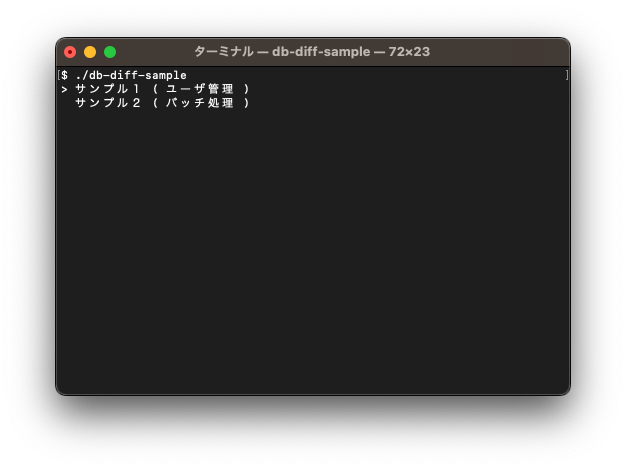
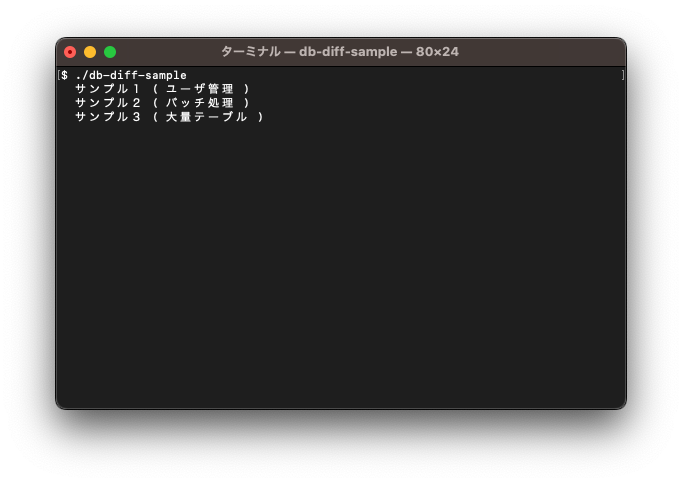
create sample3.

Changed region(s): [[0.0607, 0.0597, 0.9409, 0.8358], [0.0911, 0.8358, 0.9105, 0.8657]]

diff --git a/src/sample3/mod.rs b/src/sample3/mod.rs
@@ -1,0 +1,50 @@
+use std::sync::Arc;
+
+use itertools::Itertools;
+use mysql::{Opts, OptsBuilder};
+use r2d2::ManageConnection;
+use r2d2::Pool;
+use r2d2_mysql::MysqlConnectionManager;
+use rayon::prelude::*;
+
+pub fn init(tables: usize, cols: usize, lines: usize) {
+    let pool = create_pool();
+
+    (0..tables).into_par_iter().for_each(|n| {
+        exec(&pool, n, cols, lines);
+    });
+}
+
+fn exec(pool: &Arc<Pool<MysqlConnectionManager>>, n: usize, cols: usize, lines: usize) {
+    let table_name = format!("table_{n:0>2}");
+    let col_defs = (0..cols).into_iter().map(|i| format!("col_{i:0>2} char(64)")).join(", ");
+    let col_names = (0..cols).into_iter().map(|i| format!("col_{i:0>2}")).join(", ");
+    let record = (0..cols).into_iter().join(", ");
+    let records = (0..lines).into_iter().map(|_| format!("( {} )", &record)).join(", ");
+
+    let pool = pool.clone();
+    let mut conn = pool.get().unwrap();
+
+    conn.prep_exec(format!("drop table if exists {table_name}"), ()).unwrap();
+    conn.prep_exec(format!("create table {table_name} ( id int auto_increment, {col_defs}, updated_at datetime default current_timestamp, primary key (id) )"), ()).unwrap();
+    conn.prep_exec(format!("insert into {table_name} ( {col_names} ) values {records}"), ()).unwrap();
+}
+
+pub fn info() {
+    println!("{}", get_url());
+}
+
+fn create_pool() -> Arc<Pool<MysqlConnectionManager>> {
+    let opt = Opts::from_url(get_url()).unwrap();
+    let builder = OptsBuilder::from_opts(opt);
+    let manager = MysqlConnectionManager::new(builder);
+    let _ = match manager.connect() {
+        Ok(x) => x,
+        Err(_) => panic!("データベースに接続できませんでした、コンテナが起動しているか確認してください"),
+    };
+    Arc::new(Pool::builder().build(manager).unwrap())
+}
+
+fn get_url() -> &'static str {
+    "mysql://user:password@localhost:33306/sample3"
+}

diff --git a/src/main.rs b/src/main.rs
@@ -4,9 +4,10 @@ use dialoguer::Select;
 
 mod sample1;
 mod sample2;
+mod sample3;
 
 fn main() -> io::Result<()> {
-    let samples = vec!["サンプル１ ( ユーザ管理 )", "サンプル２ ( バッチ処理 )"];
+    let samples = vec!["サンプル１ ( ユーザ管理 )", "サンプル２ ( バッチ処理 )", "サンプル３ ( 大量テーブル )"];
 
     match samples[Select::new().items(&samples).interact()?] {
         "サンプル１ ( ユーザ管理 )" => {
@@ -85,6 +86,27 @@ fn main() -> io::Result<()> {
                 }
             }
         }
+
+        "サンプル３ ( 大量テーブル )" => {
+            let actions = vec![
+                "初期化 ( 100 テーブル | 50 カラム | 100 行 )",
+                "接続情報確認",
+                "プログラム終了",
+            ];
+
+            loop {
+                match actions[Select::new().items(&actions).interact()?] {
+                    "初期化 ( 100 テーブル | 50 カラム | 100 行 )" => sample3::init(100, 50, 1000),
+                    "接続情報確認" => {
+                        sample3::info();
+                        break;
+                    }
+                    "プログラム終了" => break,
+                    _ => unreachable!(),
+                }
+            }
+        }
+
         _ => unreachable!(),
     }
 
